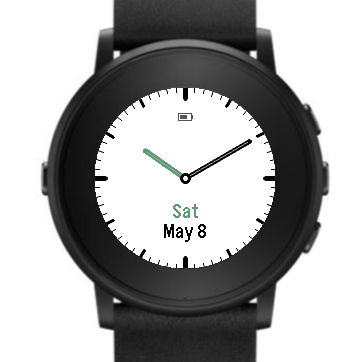
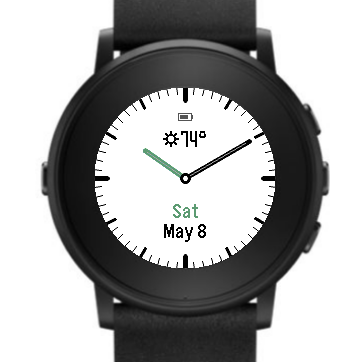
update resources

diff --git a/README.md b/README.md
@@ -29,7 +29,7 @@ The main goal when building this watchface was for it to be practical.  For inst
 
 ![Screenshot of the date display moving](screenshots/basalt/date.png)
 
-The same goes for weather information:
+The watchface also features weather information:
 
 ![Screenshot of the weather information on basalt platform](screenshots/basalt/weather.png)
 
